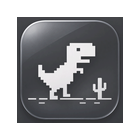
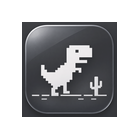
fix chrome dino game

Changed region(s): [[0.1143, 0.1143, 0.8857, 0.8857], [0.4571, 0.4286, 0.4857, 0.4571]]

diff --git a/apps/chrome_dino/package/javascript/app.js b/apps/chrome_dino/package/javascript/app.js
@@ -77,26 +77,13 @@ mgu.run({
             }
             if (!closed && shown() && !safe()) ui.open('MAIN');
         }
-        // Use the same head-unit display-language service as MGU Store.
-        // Either ID7 or ID8 may be absent on this firmware: never block gameplay.
-        const contexts = [
-            ['de.bmw.infotainment.hmi.hmicontext.HMIContext', 'HMI_CID'],
-            ['de.bmw.infotainment.hmi.hmicontext2.HMIContext2', '1']
-        ];
-        contexts.forEach(([iface, instance]) => {
-            ctx.signals.watch(iface, instance, {
-                currentDisplayLanguage(value) {
-                    const next = langOf(value);
-                    if (next !== systemLanguage) {
-                        systemLanguage = next;
-                        log.info('head unit language: ' + systemLanguage);
-                        menu();
-                    }
-                }
-            }, log).then((sub) => {
-                if (sub.error) log.warn('menu language unavailable: ' + iface + ': ' + sub.error);
-            }).catch((err) => log.warn('menu language: ' + err));
-        });
+        // Do not add HMIContext/HMIContext2 proxies to the installation manifest:
+        // on some ID7 firmwares their generation fails and blocks installation.
+        // Auto is a best-effort locale fallback; manual language always works.
+        try {
+            const envLocale = String(process.env.LC_ALL || process.env.LC_MESSAGES || process.env.LANG || 'en');
+            systemLanguage = langOf(envLocale.split('.')[0]);
+        } catch (_) { systemLanguage = 'en'; }
         parked = Parked.watch(safetyCtx, log);
         ui.onClick('BTN_PLAY', () => {
             if (!safe()) { menu(); return; }

diff --git a/README.md b/README.md
@@ -5,7 +5,7 @@
 | Игра | Папка | Описание |
 | --- | --- | --- |
 | **Flappy Bird** | `apps/flappy_bird/` | Аркада с птицей: пролетайте между препятствиями. |
-| **Chrome Dino** | `apps/chrome_dino/` | Игра с пиксельным динозавром: прыгайте через кактусы и избегайте птиц. Версия 1.4.4: увеличенный динозавр, сложности Easy / Normal / Hard / Extreme. |
+| **Chrome Dino** | `apps/chrome_dino/` | Игра с пиксельным динозавром: прыгайте через кактусы и избегайте птиц. Версия 1.4.5: увеличенный динозавр, сложности Easy / Normal / Hard / Extreme. |
 
 **Внимание:** в данном ZIP находится только приложение `chrome_dino` и этот README для размещения в корне GitHub-репозитория. Исходники Flappy Bird остаются в вашем существующем репозитории; этот архив их не заменяет.
 
@@ -45,15 +45,15 @@ node apps/chrome_dino/build.js --preview-only
 node apps/chrome_dino/build.js
 ```
 
-Готовый OAP-пакет создаётся по адресу `apps/chrome_dino/dist/chrome_dino@1.4.4.tgz`. Сборщик работает на Node.js без npm и без скачивания SDK. Папку `dist/` в GitHub можно не публиковать: при установке магазин собирает приложение по исходникам при наличии поддержки данного формата.
+Готовый OAP-пакет создаётся по адресу `apps/chrome_dino/dist/chrome_dino@1.4.5.tgz`. Сборщик работает на Node.js без npm и без скачивания SDK. Папку `dist/` в GitHub можно не публиковать: при установке магазин собирает приложение по исходникам при наличии поддержки данного формата.
 
 Офлайн-проверки выполнены, но установку этой версии на физическом BMW необходимо подтвердить отдельно.
 
 
-Исправление 1.4.4: стандартная прозрачная иконка без стеклянной плитки; размер приведён к формату MGU Store.
+Исправление 1.4.5: стандартная прозрачная иконка без стеклянной плитки; размер приведён к формату MGU Store.
 
 
-### Chrome Dino 1.4.4
+### Chrome Dino 1.4.5
 - Динозавр в оригинальных пиксельных пропорциях Chrome T-Rex (контур восстановлен по образцу).
 - Кактусы в стиле оригинала: большие, маленькие, группы из 2–3 с отдельными хитбоксами.
 - Сложности различаются плотностью и составом препятствий, а не только скоростью.
@@ -61,8 +61,14 @@ node apps/chrome_dino/build.js
 - Играть только на стоящем автомобиле.
 
 
-## Локализация Chrome Dino 1.4.4
+## Локализация Chrome Dino 1.4.5
 
-Меню автоматически определяет язык головного устройства через HMIContext/HMIContext2 (`currentDisplayLanguage`) и реагирует на смену языка. Есть переводы на русский, английский, немецкий, французский, испанский, итальянский, португальский, польский, украинский, нидерландский, шведский и турецкий. Если язык недоступен или не поддержан, используется английский. Игровые надписи на графическом экране пока остаются английскими.
+Режим «Авто» выбирает язык по доступной системной локали, иначе использует английский. Прямой доступ к HMIContext/HMIContext2 отключён для совместимости при установке на MGU. Ручной выбор языка работает независимо. Есть переводы на русский, английский, немецкий, французский, испанский, итальянский, португальский, польский, украинский, нидерландский, шведский и турецкий. Если язык недоступен или не поддержан, используется английский. Игровые надписи на графическом экране пока остаются английскими.
 
-Версия 1.4.4: язык меню Авто (BMW) или ручной, исправлены интервалы препятствий, уменьшена прежняя иконка.
+Версия 1.4.5: язык меню Авто (BMW) или ручной, исправлены интервалы препятствий, уменьшена прежняя иконка.
+
+
+### Исправления 1.4.5
+- Убраны дополнительные HMIContext-интерфейсы, которые могли приводить к ошибке сборки на MGU (точный диагноз без журнала автомобиля не подтверждён).
+- Возвращена стеклянная иконка Chrome Dino с уменьшенным размером и прозрачными полями.
+- Сохранены ручной выбор языка и четыре уровня сложности. Режим «Авто» — best effort с английским fallback.

diff --git a/apps/chrome_dino/README.md b/apps/chrome_dino/README.md
@@ -1,8 +1,8 @@
-# Chrome Dino 1.4.4 для BMW MGU Store
+# Chrome Dino 1.4.5 для BMW MGU Store
 
 Самостоятельное приложение для BMW MGU, iDrive 7/8. Игра запускается только при остановленном автомобиле.
 
-## Что нового в версии 1.4.4
+## Что нового в версии 1.4.5
 
 - Увеличенный пиксельный T-Rex, лучше различимый на экране iDrive.
 - Выбор из четырёх сложностей **Easy**, **Normal**, **Hard**, **Extreme** в главном меню.
@@ -29,15 +29,15 @@ node apps/chrome_dino/build.js --preview-only
 node apps/chrome_dino/build.js
 ```
 
-В этой папке также содержится полный собранный пакет `dist/chrome_dino@1.4.4.tgz`. Для публикации исходников в GitHub `dist/` можно исключить. BMW SDK отдельно устанавливать не нужно: необходимые сервисы предоставляет MGU Store/головное устройство.
+В этой папке также содержится полный собранный пакет `dist/chrome_dino@1.4.5.tgz`. Для публикации исходников в GitHub `dist/` можно исключить. BMW SDK отдельно устанавливать не нужно: необходимые сервисы предоставляет MGU Store/головное устройство.
 
 Офлайн-проверка выполнена; установка на реальном автомобиле не проверялась.
 
 
-Исправление 1.4.4: стандартная прозрачная иконка без стеклянной плитки; размер приведён к формату MGU Store.
+Исправление 1.4.5: стандартная прозрачная иконка без стеклянной плитки; размер приведён к формату MGU Store.
 
 
-### Chrome Dino 1.4.4
+### Chrome Dino 1.4.5
 - Динозавр в оригинальных пиксельных пропорциях Chrome T-Rex (контур восстановлен по образцу).
 - Кактусы в стиле оригинала: большие, маленькие, группы из 2–3 с отдельными хитбоксами.
 - Сложности различаются плотностью и составом препятствий, а не только скоростью.
@@ -45,11 +45,17 @@ node apps/chrome_dino/build.js
 - Играть только на стоящем автомобиле.
 
 
-## Локализация Chrome Dino 1.4.4
+## Локализация Chrome Dino 1.4.5
 
-Меню автоматически определяет язык головного устройства через HMIContext/HMIContext2 (`currentDisplayLanguage`) и реагирует на смену языка. Есть переводы на русский, английский, немецкий, французский, испанский, итальянский, португальский, польский, украинский, нидерландский, шведский и турецкий. Если язык недоступен или не поддержан, используется английский. Игровые надписи на графическом экране пока остаются английскими.
+Режим «Авто» выбирает язык по доступной системной локали, иначе использует английский. Прямой доступ к HMIContext/HMIContext2 отключён для совместимости при установке на MGU. Ручной выбор языка работает независимо. Есть переводы на русский, английский, немецкий, французский, испанский, итальянский, португальский, польский, украинский, нидерландский, шведский и турецкий. Если язык недоступен или не поддержан, используется английский. Игровые надписи на графическом экране пока остаются английскими.
 
-## Версия 1.4.4
+## Версия 1.4.5
 - В меню есть выбор языка: Авто (от BMW) и 12 ручных вариантов; выбор сохраняется.
 - Сбалансированы интервалы кактусов, возвращена случайная вариативность и интервалы для повторных прыжков.
 - Возвращена красивая стеклянная иконка, но уменьшенная в прозрачном холсте.
+
+
+### Исправления 1.4.5
+- Убраны дополнительные HMIContext-интерфейсы, которые могли приводить к ошибке сборки на MGU (точный диагноз без журнала автомобиля не подтверждён).
+- Возвращена стеклянная иконка Chrome Dino с уменьшенным размером и прозрачными полями.
+- Сохранены ручной выбор языка и четыре уровня сложности. Режим «Авто» — best effort с английским fallback.
